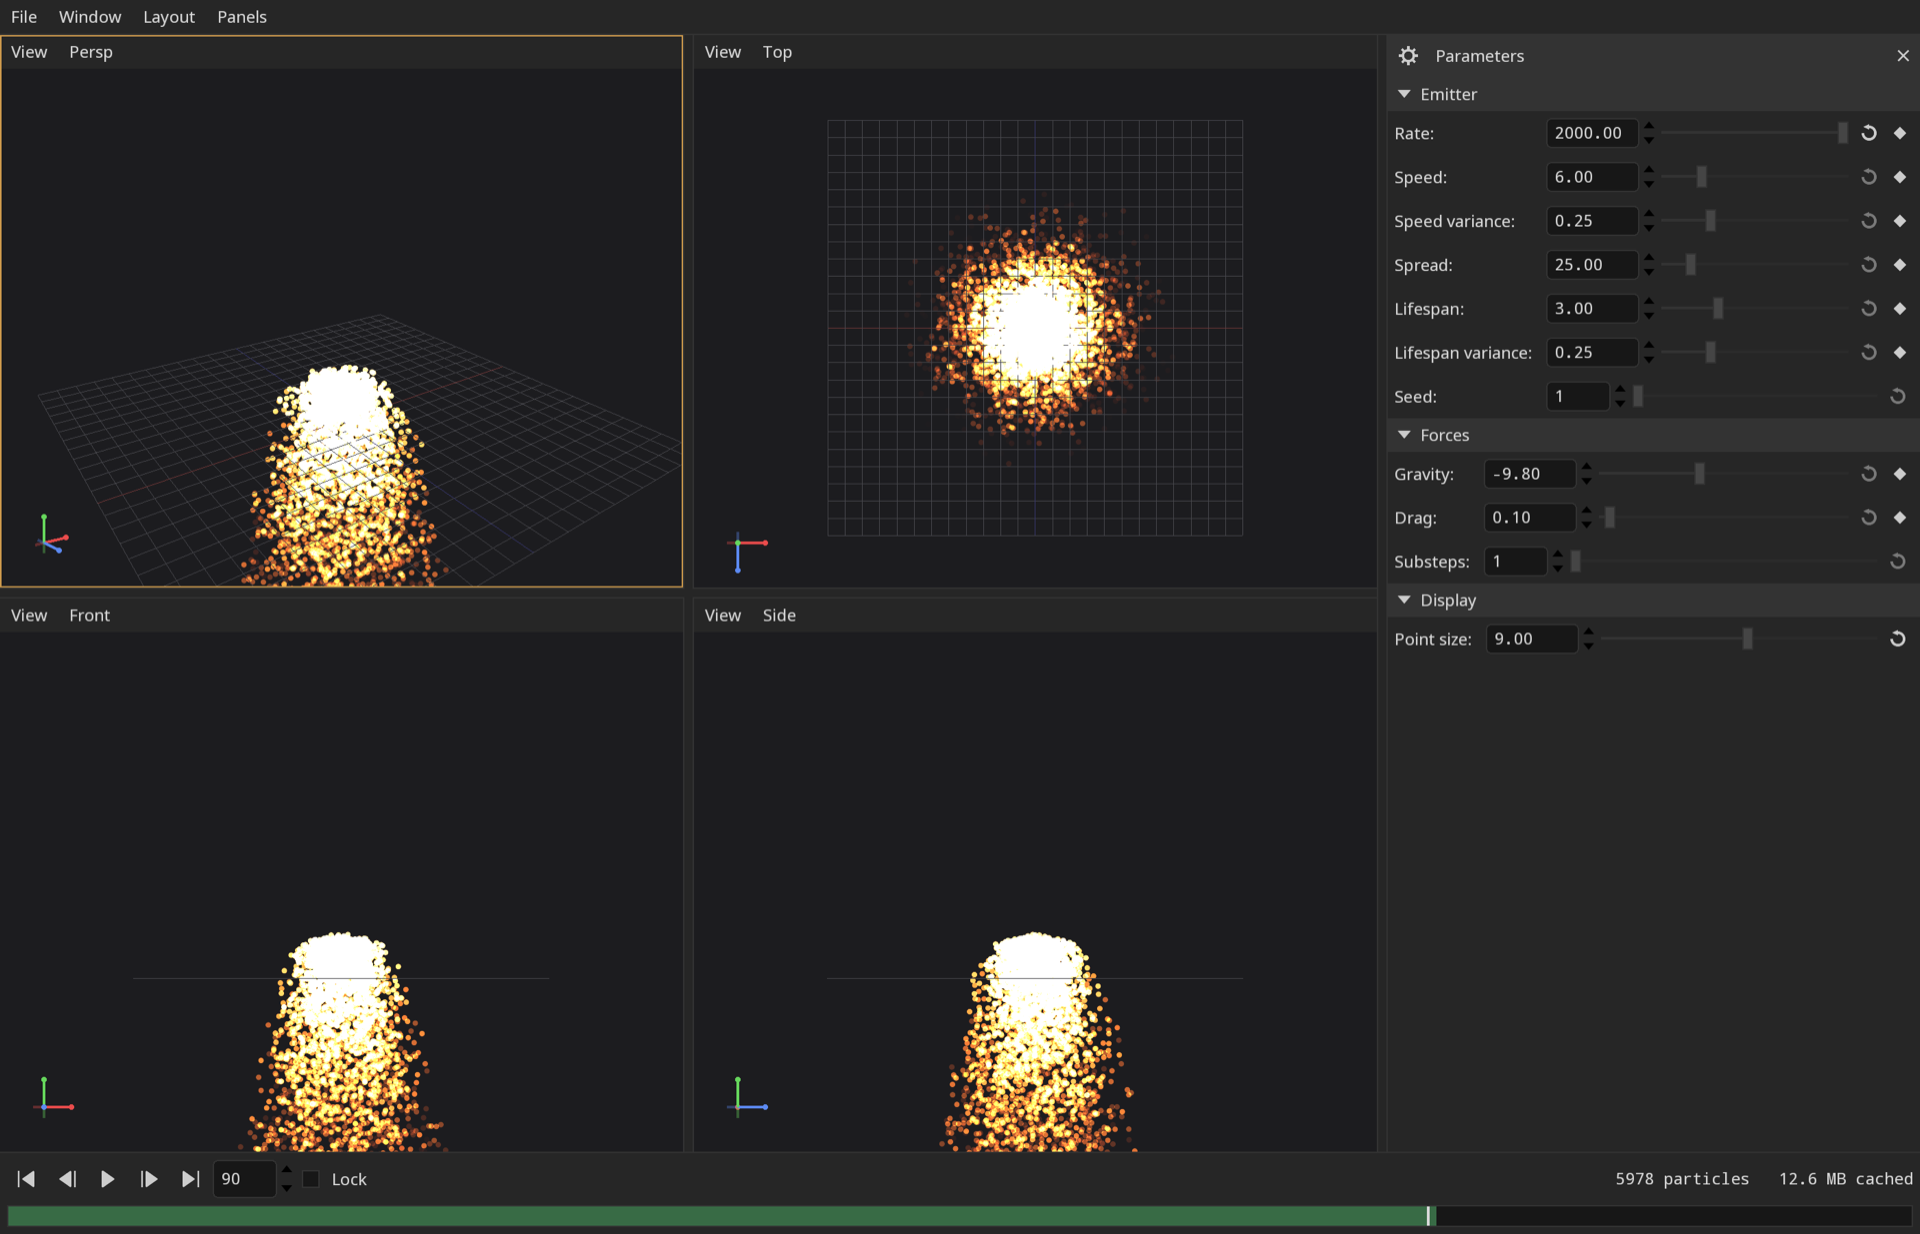
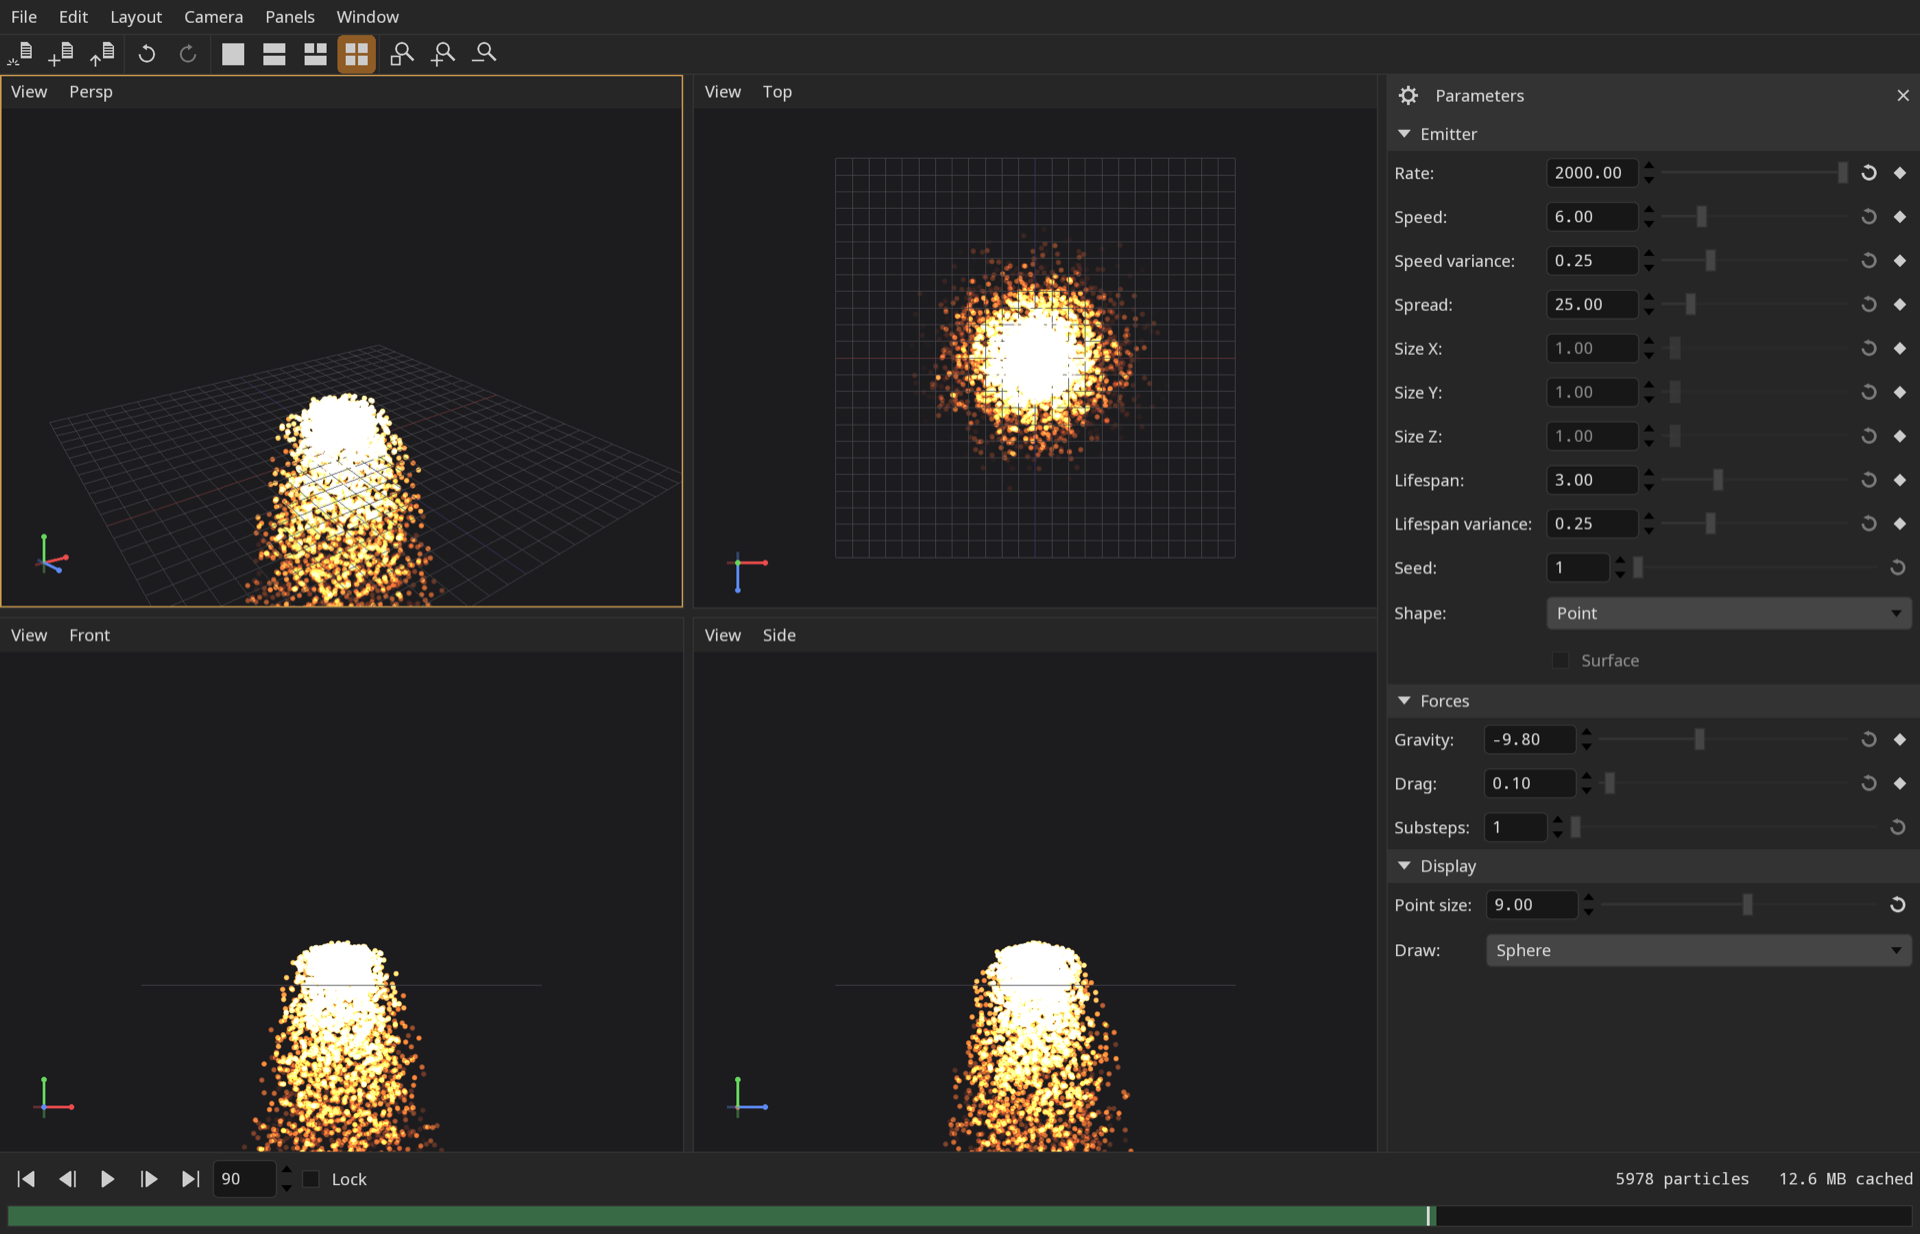
Draw the particles as spheres
The disc the viewport already cuts out of a point is the silhouette of a
unit sphere, so the normal falls out of where in the disc the pixel is.
Lit from the camera with a little wrap: no geometry, no light in the
scene, no depth pass, and a plume that reads as volume rather than as
confetti.

This is the first step of §10's distance fields -- a blob is the same
idea with the spheres allowed to melt together -- and the reason the
render path is worth designing around them.

The round uniform becomes drawType, because there are three answers now
and two of them are not booleans.

That is the last of phase 1. The README says so and its screenshot uses
the spheres.

diff --git a/lib/fx/App/Viewport.cpp b/lib/fx/App/Viewport.cpp
@@ -80,25 +80,39 @@ namespace fx
                     "out vec4 outColor;\n"
                     "\n"
                     "uniform float pointSize;\n"
-                    "uniform float round;\n"
+                    // 0 draws whatever this is flat -- the grid, where
+                    // gl_PointCoord means nothing. 1 cuts a point back to the
+                    // disc inside it. 2 shades that disc as a sphere.
+                    "uniform int drawType;\n"
                     "\n"
                     "void main()\n"
                     "{\n"
+                    "    float a = 1.0;\n"
+                    "    vec3 rgb = fColor.rgb;\n"
+                    "    if (drawType > 0)\n"
+                    "    {\n"
                     // A point is a square, which is plain to see by the time it
                     // is a few pixels across. Cut it back to the disc inside,
                     // and fade the last pixel of the edge rather than stepping
                     // it: unsoftened, the disc looks worse than the square did.
-                    // gl_PointCoord means nothing outside a point, hence the
-                    // switch for the grid lines sharing this shader.
-                    "    float a = 1.0;\n"
-                    "    if (round > 0.0)\n"
-                    "    {\n"
-                    "        float d = length(gl_PointCoord - vec2(0.5));\n"
-                    "        float aa = 1.0 / max(pointSize, 1.0);\n"
-                    "        a = 1.0 - smoothstep(0.5 - aa, 0.5, d);\n"
+                    "        vec2 p = (gl_PointCoord - vec2(0.5)) * 2.0;\n"
+                    "        float r2 = dot(p, p);\n"
+                    "        float aa = 2.0 / max(pointSize, 1.0);\n"
+                    "        a = 1.0 - smoothstep(1.0 - aa, 1.0, sqrt(r2));\n"
                     "        if (a <= 0.0) discard;\n"
+                    "        if (drawType > 1)\n"
+                    "        {\n"
+                    // The impostor: the disc is the silhouette of a unit
+                    // sphere, so the surface normal falls out of where in the
+                    // disc this pixel is. Lit from the camera with a little
+                    // wrap, which reads as volume without needing a light in
+                    // the scene or a depth pass to sort them.
+                    "            vec3 n = vec3(p, sqrt(max(0.0, 1.0 - r2)));\n"
+                    "            float d = clamp(n.z * 0.85 + 0.15, 0.0, 1.0);\n"
+                    "            rgb *= d;\n"
+                    "        }\n"
                     "    }\n"
-                    "    outColor = vec4(fColor.rgb, fColor.a * a);\n"
+                    "    outColor = vec4(rgb, fColor.a * a);\n"
                     "}\n";
             }
 
@@ -290,6 +304,20 @@ namespace fx
         void Viewport::zoomOut()
         {
             _setZoom(1.1F);
+        }
+
+        DrawType Viewport::getDrawType() const
+        {
+            return _drawType;
+        }
+
+        void Viewport::setDrawType(DrawType value)
+        {
+            if (value == _drawType)
+                return;
+            _drawType = value;
+            _doRender = true;
+            setDrawUpdate();
         }
 
         float Viewport::getPointSize() const
@@ -640,7 +668,7 @@ namespace fx
                     if (_gridVao && _gridCount > 0)
                     {
                         _shader->setUniform("pointSize", 1.F);
-                        _shader->setUniform("round", 0.F);
+                        _shader->setUniform("drawType", 0);
                         glEnable(GL_DEPTH_TEST);
                         _gridVao->bind();
                         _gridVao->draw(GL_LINES, 0, _gridCount);
@@ -652,7 +680,7 @@ namespace fx
                         // embers read as light rather than as surfaces, and it
                         // means the points do not have to be sorted.
                         _shader->setUniform("pointSize", _pointSize);
-                        _shader->setUniform("round", 1.F);
+                        _shader->setUniform("drawType", DrawType::Sphere == _drawType ? 2 : 1);
                         glEnable(GL_BLEND);
                         glBlendFunc(GL_SRC_ALPHA, GL_ONE);
                         glDepthMask(GL_FALSE);

diff --git a/lib/fx/App/ParametersPanel.cpp b/lib/fx/App/ParametersPanel.cpp
@@ -184,6 +184,8 @@ namespace fx
                     }
                 }
                 _surfaceCheckBox->setEnabled(sim::hasVolume(emitter.shape));
+                _drawTypeComboBox->setCurrentIndex(
+                    static_cast<int>(model->getDrawType()));
             }
             for (auto& row : _rows)
             {
@@ -378,6 +380,22 @@ namespace fx
                     }
                 });
             displayLayout->addRow("Point size:", pointSizeSlider);
+
+            auto drawTypeComboBox = ComboBox::create(context, getDrawTypeLabels());
+            drawTypeComboBox->setCurrentIndex(
+                static_cast<int>(model->getDrawType()));
+            drawTypeComboBox->setTooltip(
+                "Draw the particles as flat discs or as shaded spheres");
+            drawTypeComboBox->setIndexCallback(
+                [weak](int value)
+                {
+                    if (auto model = weak.lock())
+                    {
+                        model->setDrawType(static_cast<DrawType>(value));
+                    }
+                });
+            displayLayout->addRow("Draw:", drawTypeComboBox);
+            _drawTypeComboBox = drawTypeComboBox;
             auto displayBellows = Bellows::create(context, "Display", layout);
             displayBellows->setWidget(displayLayout);
             displayBellows->setOpen(true);

diff --git a/lib/fx/App/SceneModel.h b/lib/fx/App/SceneModel.h
@@ -3,6 +3,7 @@
 
 #pragma once
 
+#include <fx/App/PaneOptions.h>
 #include <fx/Core/Cache.h>
 #include <fx/Sim/Scene.h>
 
@@ -172,6 +173,11 @@ namespace fx
             std::shared_ptr<ftk::IObservable<float> > observePointSize() const;
             void setPointSize(float);
 
+            //! How the particles draw. A display setting like the point size.
+            DrawType getDrawType() const;
+            std::shared_ptr<ftk::IObservable<DrawType> > observeDrawType() const;
+            void setDrawType(DrawType);
+
             ///@}
 
             //! \name Time
@@ -264,6 +270,7 @@ namespace fx
             std::shared_ptr<ftk::Observable<int> > _sceneChanged;
             std::shared_ptr<ftk::Observable<int> > _parameterChanged;
             std::shared_ptr<ftk::Observable<float> > _pointSize;
+            std::shared_ptr<ftk::Observable<DrawType> > _drawType;
             std::shared_ptr<ftk::CommandStack> _commands;
 
             //! The command at the top of the stack, when it is still the one

diff --git a/lib/fx/App/PaneOptions.h b/lib/fx/App/PaneOptions.h
@@ -104,6 +104,28 @@ namespace fx
         std::vector<std::string> getPaneLayoutLabels();
         std::string getLabel(PaneLayout);
 
+        //! How the particles are drawn.
+        //!
+        //! A display setting rather than a scene one, like the point size:
+        //! it is how the artist is looking at the simulation. §10's render
+        //! types are the scene's own answer and are a later thing.
+        enum class DrawType
+        {
+            //! A flat disc.
+            Point,
+
+            //! The same disc shaded as the silhouette of a sphere, which is
+            //! what makes a plume read as volume rather than as confetti.
+            Sphere,
+
+            Count,
+            First = Point
+        };
+
+        std::vector<std::string> getDrawTypeLabels();
+        std::string getLabel(DrawType);
+        bool fromString(const std::string&, DrawType&);
+
         //! Get the number of panes an arrangement shows.
         int getPaneCount(PaneLayout);
 

diff --git a/lib/fx/App/SceneModel.cpp b/lib/fx/App/SceneModel.cpp
@@ -81,6 +81,7 @@ namespace fx
             _sceneChanged = Observable<int>::create(0);
             _parameterChanged = Observable<int>::create(0);
             _pointSize = Observable<float>::create(3.F);
+            _drawType = Observable<DrawType>::create(DrawType::Point);
             _commands = CommandStack::create();
             _saved = getScene();
 
@@ -316,6 +317,21 @@ namespace fx
                 return;
             _pointSize->setIfChanged(value);
             _record("Set Point Size", _system, before);
+        }
+
+        DrawType SceneModel::getDrawType() const
+        {
+            return _drawType->get();
+        }
+
+        std::shared_ptr<IObservable<DrawType> > SceneModel::observeDrawType() const
+        {
+            return _drawType;
+        }
+
+        void SceneModel::setDrawType(DrawType value)
+        {
+            _drawType->setIfChanged(value);
         }
 
         const RangeI& SceneModel::getRange() const

diff --git a/lib/fx/App/Panes.cpp b/lib/fx/App/Panes.cpp
@@ -49,6 +49,9 @@ namespace fx
             _pointSizeObserver = Observer<float>::create(
                 model->observePointSize(),
                 [this](float value) { setPointSize(value); });
+            _drawTypeObserver = Observer<DrawType>::create(
+                model->observeDrawType(),
+                [this](DrawType value) { setDrawType(value); });
         }
 
         Panes::~Panes()
@@ -110,6 +113,14 @@ namespace fx
             _panes[_currentIndex]->setCurrent(false);
             _currentIndex = index;
             _panes[_currentIndex]->setCurrent(true);
+        }
+
+        void Panes::setDrawType(DrawType value)
+        {
+            for (const auto& pane : _panes)
+            {
+                pane->setDrawType(value);
+            }
         }
 
         void Panes::setPointSize(float value)

diff --git a/lib/fx/App/Pane.h b/lib/fx/App/Pane.h
@@ -81,6 +81,10 @@ namespace fx
             //! force when a pane is switched back to.
             void setPointSize(float);
 
+            //! Set how the particles draw in this pane's viewport, whether or
+            //! not it has one yet.
+            void setDrawType(DrawType);
+
             //! Set whether this is the pane actions apply to. The current pane
             //! draws a border so that it is obvious which one that is.
             void setCurrent(bool);
@@ -118,6 +122,7 @@ namespace fx
             std::function<void(void)> _pressCallback;
             int _border = 0;
             float _pointSize = 3.F;
+            DrawType _drawType = DrawType::Point;
 
             //! Set when the menus need rebuilding, acted on at the next tick.
             //!

diff --git a/lib/fx/App/Capture.cpp b/lib/fx/App/Capture.cpp
@@ -516,6 +516,15 @@ namespace fx
                     step.at("rate").get<float>());
                 model->systemChanged("Set Rate", before);
             }
+            if (step.contains("draw"))
+            {
+                const std::string name = step.at("draw").get<std::string>();
+                DrawType drawType = DrawType::First;
+                if (!fromString(name, drawType))
+                    throw std::runtime_error(ftk::Format(
+                        "unknown draw type \"{0}\"").arg(name));
+                model->setDrawType(drawType);
+            }
             if (step.contains("pointSize"))
             {
                 model->setPointSize(step.at("pointSize").get<float>());

diff --git a/lib/fx/App/Viewport.h b/lib/fx/App/Viewport.h
@@ -68,6 +68,9 @@ namespace fx
             float getPointSize() const;
             void setPointSize(float);
 
+            DrawType getDrawType() const;
+            void setDrawType(DrawType);
+
             //! Set the callback for the viewport being clicked in, which is how
             //! its pane becomes the current one.
             void setPressCallback(const std::function<void(void)>&);
@@ -113,6 +116,7 @@ namespace fx
 
             std::shared_ptr<const core::Frame> _frame;
             float _pointSize = 3.F;
+            DrawType _drawType = DrawType::Point;
             std::function<void(void)> _pressCallback;
 
             ViewType _viewType = ViewType::Perspective;

diff --git a/lib/fx/App/Panes.h b/lib/fx/App/Panes.h
@@ -72,6 +72,9 @@ namespace fx
             //! same everywhere; it is the camera that differs between them.
             void setPointSize(float);
 
+            //! Set how the particles draw in every viewport.
+            void setDrawType(DrawType);
+
         private:
             //! Tear down the tree of splitters and build the one the current
             //! arrangement calls for.
@@ -85,6 +88,7 @@ namespace fx
             //! arrangement is a single one.
             std::shared_ptr<ftk::IWidget> _root;
             std::shared_ptr<ftk::Observer<float> > _pointSizeObserver;
+            std::shared_ptr<ftk::Observer<DrawType> > _drawTypeObserver;
         };
     }
 }

diff --git a/lib/fx/App/Pane.cpp b/lib/fx/App/Pane.cpp
@@ -159,6 +159,7 @@ namespace fx
                         }
                     });
                 _viewport->setPointSize(_pointSize);
+                _viewport->setDrawType(_drawType);
                 content = _viewport;
             }
             else if (PaneType::Curves == paneType)
@@ -225,6 +226,15 @@ namespace fx
             {
                 _menuBar->removeMenu(getLabel(_viewType));
                 _viewMenu.reset();
+            }
+        }
+
+        void Pane::setDrawType(DrawType value)
+        {
+            _drawType = value;
+            if (_viewport)
+            {
+                _viewport->setDrawType(value);
             }
         }
 

diff --git a/lib/fx/App/PaneOptions.cpp b/lib/fx/App/PaneOptions.cpp
@@ -103,6 +103,21 @@ namespace fx
             return { "Single", "Two", "Three", "Four" };
         }
 
+        std::vector<std::string> getDrawTypeLabels()
+        {
+            return { "Point", "Sphere" };
+        }
+
+        std::string getLabel(DrawType value)
+        {
+            return enumToLabel(getDrawTypeLabels(), value);
+        }
+
+        bool fromString(const std::string& name, DrawType& out)
+        {
+            return labelToEnum(getDrawTypeLabels(), name, out);
+        }
+
         std::string getLabel(PaneLayout value)
         {
             return enumToLabel(getPaneLayoutLabels(), value);
